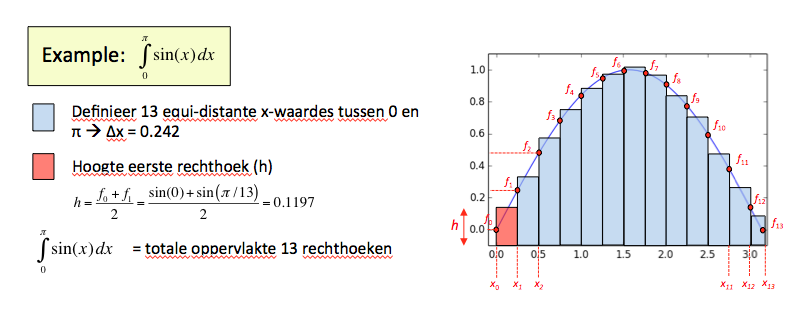
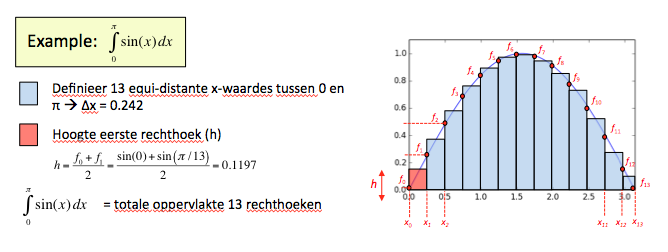
links etc

diff --git a/en/riemann/explanation/index.md b/en/riemann/explanation/index.md
@@ -1,0 +1,28 @@
+# Riemann
+
+One of the ways of evaluating an integral is by expressing it as the sum of small rectangles, the Riemann sum. Imagine the following integral:
+
+$$ \int_a^b f(x)~dx $$
+
+Then: divide the interval $$ (a,b) $$ into $$N$$ intervals of equal length $$\Delta x$$ and write the integral as the sum of all partial integrals of each interval.
+
+$$ \int_a^b f(x)~dx = \sum_{i=0}^{N-1} \int_{x_i}^{x_{i+1}} f(x)~dx $$
+
+For which $$x_i$$ is the corner of one of those intervals. There are $$N+1$$ corners that range from $$ x_0 $$ through $$x_{N}$$. As can be seen in the graph on the following figure.
+
+![](../../../RiemannExample.png)
+
+Now that we know we're looking for a large number of partial integrals, let's simplify the problem at hand, by *approximating* the partial integrals.
+
+We imagine them as a rectangle. The width of the rectangle is of course $$ \Delta x = (x_{i+1} - x_{i})$$. A (simple) estimation of the height of the rectangle that best represents the integral on this small interval is simply the average of the value of $$f(x)$$ at the left hand side and right hand side of the interval. The integral on the partial interval can then be written as:
+
+$$ \int_{x_i}^{x_{i+1}} f(x)~dx = \frac{f_{i+1}+f_i}{2}~\Delta x$$
+
+The complete integral is then expressed by:
+
+$$ \int_a^b f(x)~dx = \frac{\Delta x}{2} (f_0 + 2 f_1 + 2 f_2 + ... +  2 f_{N-1} + f_N)~+~\mathcal{O}((\Delta x)^2)\\
+                       ~~ \approx \Delta~x(f_1 + f_2 + ... +  f_{N-1}) ~+~ \frac{\Delta x}{2}(f_0+f_N) $$
+
+In the evaluation of the integral $$ \int_{0}^{\pi}sin(x)~dx$$, we have divided the integral area $$x$$ in 13 areas of similar size. Which means we have 14 x-values. The height of each of the 13 rectangles (or, smaller integration areas) is the average of the function's value on the left hand side and right hand side of the rectangles. 
+
+The trick is as follows: the ultimate integral can be evaluated by the sum of the areas of all rectangles. Note that when calculating the integral the 'areas' of rectangles underneath the y-axis is negative. When the intervals become smaller and smaller, the approximation of the integral gets more precise! Which is why it's a good thing we are using a computer for this.

diff --git a/en/extra/index.md b/en/extra/index.md
@@ -3,7 +3,7 @@
 You probably already know those beautiful multi-colored pictures in which patterns repeat themselves until they are infinitely small. These incredibly complex patterns, called *fractals*, funnily enough are product of a small set of simple (mathematical) rules. Often times in nature do we find such simple hidden mechanisms for complex phenomena, however hard they are to find out about. In this assignment we delve a little deeper into the math behind fractals and with that knowledge we'll try to recreate one of the most well-known fractals: the [Mandelbrot set](https://en.wikipedia.org/wiki/Mandelbrot_set).
 
 <p align="center">
-![](mandelbrot.png){: style="width:50%"}
+![](../../assets/mandelbrot.png){: style="width:50%"}
 </p>
 
 The goal of this extra assignment is: write a program `fractal.py` that displays the Mandelbrot set on the screen.
@@ -25,7 +25,7 @@ A complex number (z) is made up out of two components: a real and an imaginary p
 A common way to imagine these numbers is the so called *complex field*, a 2-dimensional field with a real axis and an imaginary axis that represents the complex part of the number, as can be seen below. Two examples of complex numbers are $$c = -5 + 3i$$ and $$c=-2-4i$$. These are both represented in blue. All numbers we usually use (0, -3, $$12/67$$, $$\pi$$, $$e$$, 10465, ...) are situated on the real axis. There are also a couple of complex numbers in red; we'll come back to those in time.
 
 <p align="center">
-![](ComplexeGetallen.png){: style="width:70%"}
+![](../../ComplexeGetallen.png){: style="width:70%"}
 </p>
 
 Adding complex numbers is simply adding the real part and the complex part individually, but multiplying them requires some caution. You have to take into account that $$i^2 = -1$$. It's most apparent when performing exponentiation:

diff --git a/en/monte carlo/explanation/index.md b/en/monte carlo/explanation/index.md
@@ -1,0 +1,35 @@
+# Monte Carlo
+
+It is possible to approximate an integral by using random numbers.
+
+![embed](https://player.vimeo.com/video/138378068)
+
+
+1.  Define a rectangle that surrounds the integral area
+
+    Define an area (often times a rectangle) that surrounds the integral area. So you have to choose a $$x_{min}$$, $$x_{max}$$, $$y_{min}$$ and $$y_{max}$$ such that:
+
+      - $$x_{min} \leq a$$ and $$x_{max} \geq b$$
+
+      - for $$a \leq x \leq b$$ : $$y_{min} \leq f(x)  \leq y_{max}$$
+
+    Choose the tightest rectangle with $$x_{min} = a$$ and $$x_{max} = b$$.
+
+2.  Generate random points within the rectangle
+
+    Generate a large number of random numbers $$(x_i, y_i)$$ in the rectangle that surrounds the integral area and verify for each point whether it lies 'within' the integral area ('good') or not ('wrong'). Keep track of the fraction of points within the integral area: $$f_{good}$$.
+
+3.  Determine the integral
+
+    The integral is the fraction of points generated within the graph times the total surface of the rectangle ('box').
+    In case of a rectangle the integral is given by:
+
+    $$
+        \int_a^b f(x)~dx = f_{good}~~\cdot~(x_{max}-x_{min})\cdot(y_{max}-y_{min})
+    $$
+
+## Example
+
+It is known that the function $$sin(x)$$ is enclosed on the domain $$0 < x < \pi$$ between 0 and 1. So we defined a box around the integral area and generated 2000 random points. Of which 63.15% (1263/2000) appeared to be within the integral area. The approximation that we've made of the integral using these 2000 is subsequently: 0.6315$$\pi \approx 1.984$$. When this method is implemented correctly, we can effortlessly generate 1 million points instead of 2000.
+
+![](../../../MonteCarloExample.png)

diff --git a/en/index.md b/en/index.md
@@ -38,15 +38,3 @@ In the video below, meet Lydia Brenner and Jelle Aalbers from [Nikhef](http://ww
 2. <span class="badge badge-primary">Assignment:</span> Use random values to calculate integrals with the [Monte Carlo](/integrals/monte-carlo) method
 
 3. <span class="badge badge-primary">Assignment:</span> Calculate the surface of an odd shape: [the Twitter egg](/integrals/egg)
-
-##### Submitting
-
-When you're ready to submit, head to [the submit page for this module](/integrals/submit).
-
-The Twitter Egg assignment can't be submitted but you might show off your code during office hours :-)
-
-### Evaluation
-
-Have you submitted each problem from this module? Then you're done! Let us know by e-mail if you have any remarks on the quality of this module. It's important for us to get feedback on the course's content, and we actually use it to improve!
-
-

diff --git a/en/monte carlo/egg/index.md b/en/monte carlo/egg/index.md
@@ -4,7 +4,7 @@ Write a program called `twitter()` that calculates the area of the Twitter egg. 
 
 $$ \sqrt{x^2+y^2} + \frac{2}{3}\sqrt{x^2+\left(\frac{5}{6}-y \right)^2 } = 1$$
 
-![](TwitterEiCombi.png)
+![](../../../TwitterEiCombi.png)
 
 Generate a total of 1 million points and calculate the correct area. After each 1000 generated points, store the estimation of the area at that moment. If implemented correctly, your answer should converge and you should see the estimation improve after each iteration.
 

diff --git a/en/random/distance/index.md b/en/random/distance/index.md
@@ -7,7 +7,7 @@ Write a program that contains a function that calculates the average distance be
 
 This is a classic example of an clear and apparently simple problem, which is difficult to analytically solve. Give it a try, then you'll soon find yourself quite stuck. Do at least try to make an estimation, so you can assess whether the answer of your program is somewhat realistic, before handing in your assignment.
 
-![](vierkant.png)
+![](../../../vierkant.png)
 
 
 ## Specification

diff --git a/en/roots/index.md b/en/roots/index.md
@@ -5,7 +5,7 @@ Write a program that calculates the roots of the polynomial $$f(x)=x^2+2x-10$$.
     # python roots.py
     The roots are -4.32 and 2.32
 
-![](PolynoomAnalyse.png)
+![](../../PolynoomAnalyse.png)
 
 
 ## Specification

diff --git a/en/random/histogram/index.md b/en/random/histogram/index.md
@@ -2,7 +2,7 @@
 
 Write a program that visualizes the distribution of numbers from the `random`-function:
 
-![](HistogramExample.png)
+![](../../../HistogramExample.png)
 
 
 ## Background
